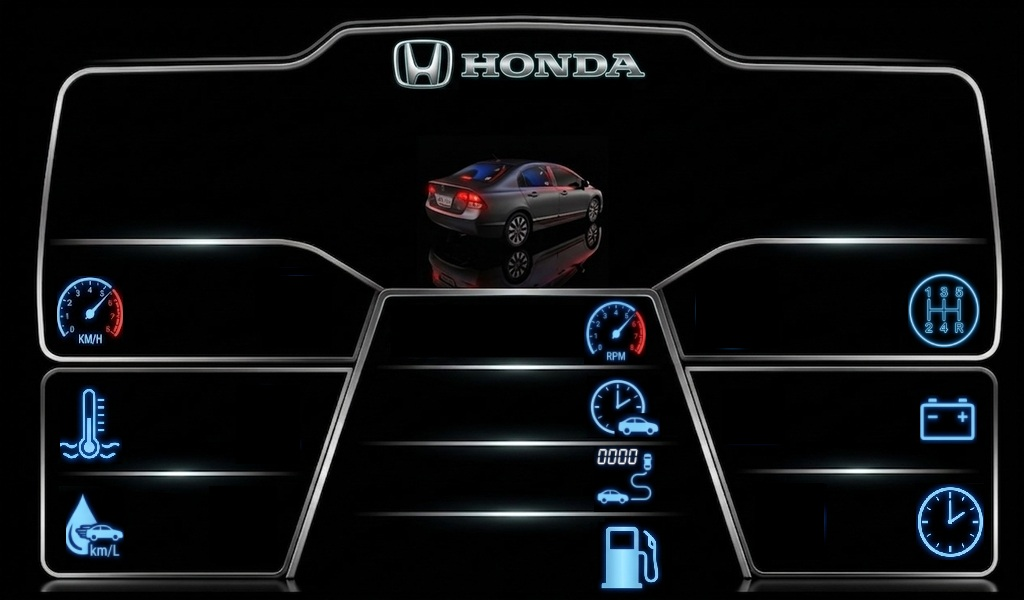
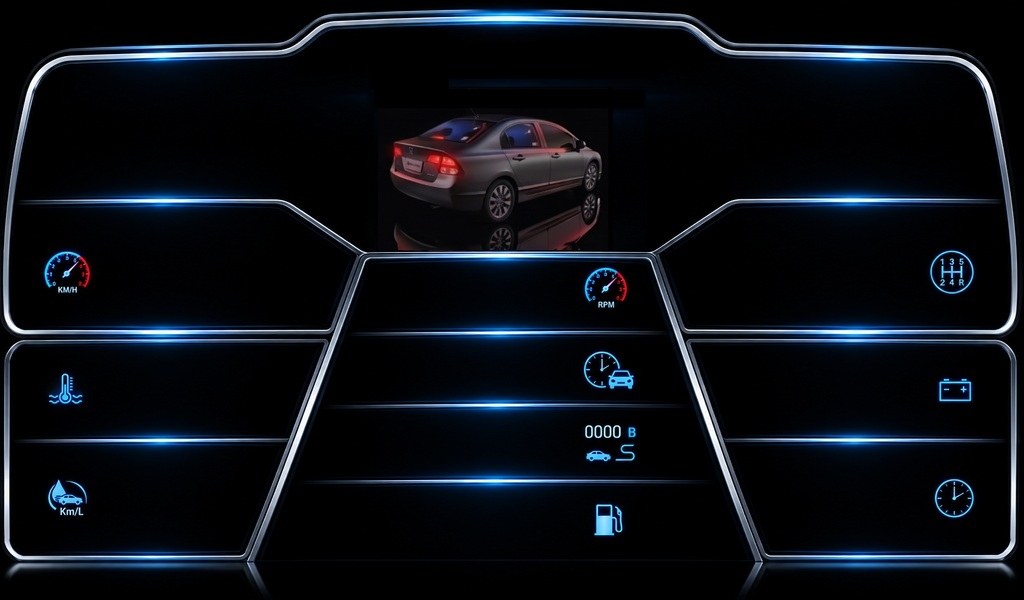
feat(performance): Implement Turbo Polling v3.1.0 with buffered reading and 500ms timeout ; fix: Correct version regression and update layout documentation

Changed region(s): [[0.0, 0.0, 1.0, 0.99]]

diff --git a/app/src/main/java/com/example/digital_obd_ii/data/obd/ObdPollingEngine.kt b/app/src/main/java/com/example/digital_obd_ii/data/obd/ObdPollingEngine.kt
@@ -1,3 +1,15 @@
+/**
+ * ENGINE: ObdPollingEngine v3.1.0
+ * 
+ * OBJETIVO:
+ * Motor de busca de alta performance (Turbo Polling). Gerencia o ciclo de vida
+ * das requisições OBD-II respeitando os intervalos do perfil.
+ *
+ * HISTÓRICO:
+ * v3.1.0 - TURBO POLLING: Remoção de redundância de RPM e redução de manutenção AT.
+ * v2.10.6 - FAIL-FAST: Implementação de descarte de erros para evitar acúmulo de latência.
+ * v2.1.4 - Motor reativo com emissão imediata (zero lag).
+ */
 package com.example.digital_obd_ii.data.obd
 
 import com.example.digital_obd_ii.data.bluetooth.BluetoothConnectionManager
@@ -22,11 +34,14 @@ class ObdPollingEngine(
         while (transport.isConnected()) {
             cycleCount++
             
-            if (cycleCount % 100 == 0) {
+            // v3.1.0: Reduzida frequência de manutenção para não poluir o rádio
+            if (cycleCount % 500 == 0) {
                 Elm327Init.maintenanceSequence.forEach { transport.send(it) }
             }
 
             for (cmd in commands) {
+                if (!transport.isConnected()) break
+
                 val sensorKey = getSensorKey(cmd)
                 val interval = profile.pollingIntervals[sensorKey] ?: 250
                 val now = System.currentTimeMillis()
@@ -35,34 +50,21 @@ class ObdPollingEngine(
                 if (now - lastPoll >= interval) {
                     val query = "${cmd.mode}${cmd.pid}"
                     val raw = transport.send(query)
+                    
+                    // v2.10.6: Se houver erro de Timeout, não processa e pula para o próximo para não acumular atraso
+                    if (raw.startsWith("ERROR")) continue
+
                     val result = ObdResponseParser.parse(raw, cmd)
                     
-                    // Emite Log para diagnóstico
                     _diagnosticFlow.tryEmit(createLogEntry(query, raw, result, cmd))
 
                     currentResults[cmd] = result
-                    lastPollTimestamps[sensorKey] = now
+                    lastPollTimestamps[sensorKey] = System.currentTimeMillis()
                     
-                    // Emissão Imediata para o Display (v2.1.4)
                     emit(currentResults.toMap())
-                    
-                    if (sensorKey != "RPM") {
-                        val rpmCmd = ObdCommand.Rpm
-                        val rpmQuery = "${rpmCmd.mode}${rpmCmd.pid}"
-                        val rawRpm = transport.send(rpmQuery)
-                        val rpmResult = ObdResponseParser.parse(rawRpm, rpmCmd)
-                        
-                        _diagnosticFlow.tryEmit(createLogEntry(rpmQuery, rawRpm, rpmResult, rpmCmd))
-
-                        currentResults[rpmCmd] = rpmResult
-                        lastPollTimestamps["RPM"] = System.currentTimeMillis()
-                        
-                        // Emissão Imediata após prioridade de RPM
-                        emit(currentResults.toMap())
-                    }
                 }
             }
-            // Substituído delay fixo por yield para maximizar taxa de polling
+            // yield() permite que outras coroutines respirem, mas o loop é o mais rápido possível
             kotlinx.coroutines.yield()
         }
     }.flowOn(Dispatchers.IO)

diff --git a/app/src/main/java/com/example/digital_obd_ii/presentation/profile/VehicleProfileViewModel.kt b/app/src/main/java/com/example/digital_obd_ii/presentation/profile/VehicleProfileViewModel.kt
@@ -20,6 +20,7 @@ import com.example.digital_obd_ii.domain.model.ElementConfig
 import com.example.digital_obd_ii.domain.model.FuelType
 import com.example.digital_obd_ii.domain.model.DevicePreset
 import com.example.digital_obd_ii.domain.model.VehicleProfile
+import com.example.digital_obd_ii.domain.model.ShiftLightTargetMode
 import com.example.digital_obd_ii.domain.model.FactoryDefaults
 import com.example.digital_obd_ii.domain.model.ObdLogEntry
 import com.example.digital_obd_ii.domain.repository.ObdRepository
@@ -127,12 +128,38 @@ class VehicleProfileViewModel @Inject constructor(
         _uiState.update { it.copy(profile = it.profile.copy(digitThickness = value)) }
     }
 
-    fun updateDevicePreset(preset: com.example.digital_obd_ii.domain.model.DevicePreset) {
-        _uiState.update { it.copy(profile = it.profile.copy(devicePreset = preset)) }
+    fun updateDevicePreset(preset: DevicePreset) {
+        _uiState.update { state ->
+            val oldProfile = state.profile
+            // 1. Atualiza o preset no perfil
+            val newProfileWithPreset = oldProfile.copy(devicePreset = preset)
+            
+            // 2. Determina qual layout carregar para o novo preset + background atual
+            val layoutKey = FactoryDefaults.getLayoutKey(newProfileWithPreset.backgroundPath, preset)
+            val targetLayout = newProfileWithPreset.multiLayouts[layoutKey] 
+                ?: if (preset == DevicePreset.MULTIMEDIA) FactoryDefaults.MULTIMEDIA_ELEMENTS_MAP 
+                else FactoryDefaults.ELEMENTS_MAP
+            
+            // 3. Aplica o novo preset e o layout correspondente
+            state.copy(profile = newProfileWithPreset.copy(elements = targetLayout))
+        }
     }
 
     fun updateBackground(path: String?, isCustom: Boolean = false) {
-        _uiState.update { it.copy(profile = it.profile.copy(backgroundPath = path, isCustomBackground = isCustom)) }
+        _uiState.update { state ->
+            val oldProfile = state.profile
+            // 1. Atualiza o background
+            val newProfileWithBg = oldProfile.copy(backgroundPath = path, isCustomBackground = isCustom)
+            
+            // 2. Determina qual layout carregar para o novo background + preset atual
+            val layoutKey = FactoryDefaults.getLayoutKey(path, newProfileWithBg.devicePreset)
+            val targetLayout = newProfileWithBg.multiLayouts[layoutKey]
+                ?: if (newProfileWithBg.devicePreset == DevicePreset.MULTIMEDIA) FactoryDefaults.MULTIMEDIA_ELEMENTS_MAP 
+                else FactoryDefaults.ELEMENTS_MAP
+                
+            // 3. Aplica as mudanças
+            state.copy(profile = newProfileWithBg.copy(elements = targetLayout))
+        }
     }
 
     fun updateIsShiftLightMode(value: Boolean) {
@@ -180,7 +207,7 @@ class VehicleProfileViewModel @Inject constructor(
     }
 
     // SHIFT LIGHT v2.10.0
-    fun updateShiftLightTargetMode(mode: com.example.digital_obd_ii.domain.model.ShiftLightTargetMode) {
+    fun updateShiftLightTargetMode(mode: ShiftLightTargetMode) {
         _uiState.update { it.copy(profile = it.profile.copy(shiftLightTargetMode = mode)) }
     }
 

diff --git a/app/src/main/java/com/example/digital_obd_ii/data/bluetooth/BluetoothConnectionManager.kt b/app/src/main/java/com/example/digital_obd_ii/data/bluetooth/BluetoothConnectionManager.kt
@@ -15,6 +15,7 @@ import java.util.UUID
 
 /**
  * Gerencia a conexão física via Bluetooth Classic (SPP).
+ * v3.1.0 - MODO TURBO: Leitura em blocos (buffer), timeout agressivo de 500ms e limpeza atômica.
  * v2.1.0 - Thread-safe, com limpeza de buffer e timeout.
  */
 class BluetoothConnectionManager(
@@ -47,36 +48,51 @@ class BluetoothConnectionManager(
         }
     }
 
-    suspend fun send(command: String, timeoutMs: Long = 2000L): String = mutex.withLock {
+    suspend fun send(command: String, timeoutMs: Long = 500L): String = mutex.withLock {
         withContext(Dispatchers.IO) {
             val out = output ?: return@withContext "ERROR: No Output"
             val inp = input ?: return@withContext "ERROR: No Input"
 
+            // v2.10.6: Timeout agressivo de 500ms para evitar travamento em simuladores/clones
             withTimeoutOrNull(timeoutMs) {
                 try {
-                    // 1. Limpa lixo residual do buffer antes de enviar
-                    while (inp.available() > 0) {
-                        inp.read()
+                    // 1. Limpa lixo residual do buffer RAPIDAMENTE
+                    if (inp.available() > 0) {
+                        val skipBuffer = ByteArray(inp.available())
+                        inp.read(skipBuffer)
                     }
 
                     // 2. Envia comando (ASCII)
                     out.write("$command\r".toByteArray(Charsets.US_ASCII))
                     out.flush()
 
-                    // 3. Lê byte a byte até o prompt '>'
+                    // 3. Lê bytes em blocos para performance
                     val responseBuilder = StringBuilder()
-                    while (true) {
-                        val b = inp.read()
-                        if (b == -1) break
-                        val c = b.toChar()
-                        if (c == '>') break
-                        responseBuilder.append(c)
+                    val buffer = ByteArray(1024)
+                    var foundPrompt = false
+                    
+                    while (!foundPrompt) {
+                        if (inp.available() > 0) {
+                            val read = inp.read(buffer)
+                            if (read == -1) break
+                            for (i in 0 until read) {
+                                val c = buffer[i].toChar()
+                                if (c == '>') {
+                                    foundPrompt = true
+                                    break
+                                }
+                                responseBuilder.append(c)
+                            }
+                        } else {
+                            // Pequena pausa para não fritar CPU enquanto aguarda buffer
+                            kotlinx.coroutines.yield()
+                        }
                     }
                     responseBuilder.toString().trim()
                 } catch (e: Exception) {
                     "ERROR: ${e.message}"
                 }
-            } ?: "ERROR: Timeout aguardando prompt '>'"
+            } ?: "ERROR: Timeout"
         }
     }
 

diff --git a/app/src/main/java/com/example/digital_obd_ii/domain/model/VehicleProfile.kt b/app/src/main/java/com/example/digital_obd_ii/domain/model/VehicleProfile.kt
@@ -19,22 +19,35 @@ package com.example.digital_obd_ii.domain.model
  * v3.0.0 - Suporte a Multi-Layout.
  */
 object FactoryDefaults {
-    val RPM = ElementConfig(435f, 305f, 0.70f)
-    val SPEED = ElementConfig(255f, 270f, 1.00f)
-    val TEMP = ElementConfig(220f, 395f, 0.70f)
-    val KML = ElementConfig(200f, 502f, 0.70f)
-    val VOLTS = ElementConfig(795f, 395f, 0.70f)
-    val CLOCK = ElementConfig(825f, 502f, 0.70f)
-    val GEARS = ElementConfig(770f, 270f, 1.00f)
-    val TRIP_TIME = ElementConfig(485f, 390f, 0.55f)
-    val TRIP_DIST = ElementConfig(485f, 465f, 0.55f)
-    val TRIP_FUEL = ElementConfig(485f, 537f, 0.55f)
+    val RPM = ElementConfig(435f, 270f, 0.70f)
+    val SPEED = ElementConfig(135f, 235f, 1.00f)
+    val TEMP = ElementConfig(135f, 365f, 0.70f)
+    val KML = ElementConfig(135f, 482f, 0.70f)
+    val VOLTS = ElementConfig(800f, 365f, 0.70f)
+    val CLOCK = ElementConfig(775f, 482f, 0.70f)
+    val GEARS = ElementConfig(840f, 235f, 1.00f)
+    val TRIP_TIME = ElementConfig(470f, 355f, 0.55f)
+    val TRIP_DIST = ElementConfig(500f, 430f, 0.55f)
+    val TRIP_FUEL = ElementConfig(500f, 502f, 0.55f)
 
     val ELEMENTS_MAP = mapOf(
         "RPM" to RPM, "SPEED" to SPEED, "TEMP" to TEMP,
         "KML" to KML, "VOLTS" to VOLTS, "CLOCK" to CLOCK,
         "GEARS" to GEARS, "TRIP_TIME" to TRIP_TIME,
         "TRIP_DIST" to TRIP_DIST, "TRIP_FUEL" to TRIP_FUEL
+    )
+
+    val MULTIMEDIA_ELEMENTS_MAP = mapOf(
+        "RPM" to ElementConfig(435f, 270f, 0.65f),
+        "SPEED" to ElementConfig(255f, 235f, 0.90f),
+        "TEMP" to ElementConfig(220f, 360f, 0.65f),
+        "KML" to ElementConfig(200f, 467f, 0.65f),
+        "VOLTS" to ElementConfig(795f, 360f, 0.65f),
+        "CLOCK" to ElementConfig(825f, 467f, 0.65f),
+        "GEARS" to ElementConfig(770f, 235f, 0.90f),
+        "TRIP_TIME" to ElementConfig(485f, 355f, 0.50f),
+        "TRIP_DIST" to ElementConfig(485f, 430f, 0.50f),
+        "TRIP_FUEL" to ElementConfig(485f, 502f, 0.50f)
     )
 
     /**
@@ -101,12 +114,12 @@ data class VehicleProfile(
     val isRpmGlowEnabled: Boolean = true,
     val maxRpmScale: Int = 4000, 
     val isRpmScaleVisible: Boolean = true,
-    val rpmScaleTextSize: Float = 30f, 
+    val rpmScaleTextSize: Float = 25f, 
     val redlineStartRpm: Int = 2500, 
     val rpmBarCurvature: Float = 35f,
     val rpmBarWidth: Float = 22f,
-    val rpmBarHeight: Float = 57f,
-    val rpmBarY: Float = 110.4f,
+    val rpmBarHeight: Float = 50f,
+    val rpmBarY: Float = 50f,
     val shiftLightBlinkMs: Int = 100,
     
     val colorActiveBlue: Long = FactoryDefaults.COLOR_ACTIVE_BLUE,

diff --git a/app/src/main/java/com/example/digital_obd_ii/presentation/profile/ui/VisualSettingsScreen.kt b/app/src/main/java/com/example/digital_obd_ii/presentation/profile/ui/VisualSettingsScreen.kt
@@ -203,6 +203,28 @@ fun VisualSettingsScreen(
                 verticalArrangement = Arrangement.spacedBy(12.dp)
             ) {
                 item {
+                    Text("📱 MODO DE DISPOSITIVO", color = CivicColors.BlueGlow, style = MaterialTheme.typography.titleMedium)
+                    Text("Define a escala base e o layout salvo:", style = MaterialTheme.typography.bodySmall, color = Color.Gray)
+                    
+                    Row(
+                        modifier = Modifier.fillMaxWidth().padding(top = 8.dp),
+                        horizontalArrangement = Arrangement.spacedBy(8.dp)
+                    ) {
+                        DevicePreset.values().forEach { preset ->
+                            FilterChip(
+                                selected = uiState.profile.devicePreset == preset,
+                                onClick = { viewModel.updateDevicePreset(preset) },
+                                label = { Text(preset.label) },
+                                leadingIcon = if (uiState.profile.devicePreset == preset) {
+                                    { Icon(Icons.Default.Check, contentDescription = null, modifier = Modifier.size(16.dp)) }
+                                } else null
+                            )
+                        }
+                    }
+                    HorizontalDivider(modifier = Modifier.padding(top = 12.dp))
+                }
+
+                item {
                     Text("🏁 SIMULADOR DE CONDUÇÃO", color = CivicColors.BlueGlow, style = MaterialTheme.typography.titleMedium)
                     Text("Teste a lógica de marchas e blink abaixo:", style = MaterialTheme.typography.bodySmall, color = Color.Gray)
                     

diff --git a/app/src/main/java/com/example/digital_obd_ii/presentation/dashboard/DashboardViewModel.kt b/app/src/main/java/com/example/digital_obd_ii/presentation/dashboard/DashboardViewModel.kt
@@ -108,9 +108,10 @@ class DashboardViewModel @Inject constructor(
                 }
                 .collect { snapshot ->
                     val now = System.currentTimeMillis()
+                    // v3.1.0: Reduzido delta para 30ms para permitir SPS mais alto (33fps+)
                     val deltaSec = (now - lastTimestamp) / 1000.0
                     
-                    if (deltaSec >= 0.1) {
+                    if (deltaSec >= 0.03) {
                         lastTimestamp = now
                         val lph = if (snapshot.instantConsumptionKmL > 0) snapshot.speedKmh / snapshot.instantConsumptionKmL else 0.0
                         val updatedTrip = updateTrip.update(_uiState.value.trip, snapshot.speedKmh, lph, deltaSec)

diff --git a/docs/architecture/OBD_COMMUNICATION_PROTOCOL.md b/docs/architecture/OBD_COMMUNICATION_PROTOCOL.md
@@ -28,9 +28,11 @@ O `ObdResponseParser` utiliza um motor de busca "Fuzzy" e limpeza via Regex:
 - **Busca por Eco**: O parser localiza o padrão `(Mode + 40) + PID` (ex: `410C` para RPM) em qualquer posição da string, permitindo extração de dados mesmo se o comando de ocultar Headers/Eco falhar.
 - **Validação de Payload**: Se o adaptador retornar o Eco mas não os dados (caso de valores `NaN` em emuladores), o sistema identifica como `ADAPTER_ERROR`, evitando que o app processe valores nulos ou quebrados.
 
-## 4. Otimização de Performance (Streaming)
+## 4. Otimização de Performance (Turbo Polling v3.1.0)
+- **Leitura em Blocos (Fast Buffer)**: Implementada na v3.1.0, a leitura da resposta Bluetooth agora é feita em blocos de 1024 bytes, eliminando a latência de leitura byte-a-byte.
+- **Timeout Agressivo (500ms)**: Redução drástica do tempo de espera para evitar que o painel congele em caso de falha de um sensor secundário.
 - **Emissão Imediata**: O `ObdPollingEngine` emite dados via `Flow` sensor a sensor, sem esperar o fim do ciclo de polling.
-- **Yielding**: Substituição de `delay(10ms)` por `yield()`, permitindo que o polling rode na velocidade limite do hardware Bluetooth (baud rate).
+- **Filtro de Display (33 FPS)**: O DashboardViewModel permite atualizações a cada 30ms, garantindo fluidez total em taxas de SPS elevadas.
 
 ---
-*Documento consolidado na v2.2.0*
+*Documento consolidado na v3.1.0*
